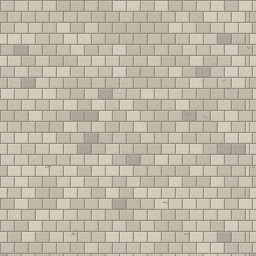
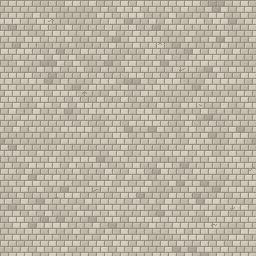
實境冒險：王城石磚縮小；地圖上的怪物改用跟戰鬥一樣的比例（不再壓到 36 像素）
Claude-Session: https://claude.ai/code/session_01Dzx97icuCcATiJaxUihh8w

diff --git a/real/index.html b/real/index.html
@@ -148,7 +148,7 @@ function draw(now){
       if(o.big){/* 樹、仙人掌、金字塔：放大到設定的高度（保持原本長寬比），稍微透明 */var th=o.big,tw=Math.round(o.im.width*th/o.im.height);
         if(o.sh){/* 樹、仙人掌、金字塔、墓碑：腳下一圈陰影 */cx.fillStyle='rgba(0,0,0,.32)';cx.beginPath();cx.ellipse(Math.round(s[0]),Math.round(s[1]-(SHY[o.k]||0)*th/o.im.height),o.op?tw*.6:Math.max(5,tw*.42),o.op?Math.max(2,Math.round(th*.2)):Math.max(2,Math.round(th*.09)),0,0,Math.PI*2);cx.fill()}cx.globalAlpha=o.op?1:TREE_A;cx.drawImage(o.im,Math.round(s[0]-tw/2),Math.round(s[1]-th),tw,th);cx.globalAlpha=1}
       else cx.drawImage(o.im,Math.round(s[0]-o.im.width/2),Math.round(s[1]-o.im.height))}
-    else if(q.t==='m'){var s2=scr(o.x,o.y),src=Monsters.src(o.k,now,o.ph),sz=Monsters.size(o.k),k=Math.min(1,36/Math.max(sz[0],sz[1])),w=Math.round(sz[0]*k),h=Math.round(sz[1]*k),lf=Math.round((Monsters.lift(o.k,now,o.ph)||0)*k);
+    else if(q.t==='m'){var s2=scr(o.x,o.y),src=Monsters.src(o.k,now,o.ph),sz=Monsters.size(o.k),k=Monsters.scale(o.k)*(o.rare&&Monsters.scale(o.k)===1?1.2:1)/* 跟戰鬥裡一樣的比例（人物 48 格高的畫布＝戰鬥裡的大小） */,w=Math.round(sz[0]*k),h=Math.round(sz[1]*k),lf=Math.round((Monsters.lift(o.k,now,o.ph)||0)*k);
       cx.fillStyle='rgba(0,0,0,.28)';cx.beginPath();cx.ellipse(Math.round(s2[0]),Math.round(s2[1]),Math.max(6,w*.38),3,0,0,Math.PI*2);cx.fill();
       if(o.rare){cx.save();cx.globalAlpha=.35+.2*Math.sin(now/300);cx.fillStyle='#ffd34a';cx.beginPath();cx.ellipse(Math.round(s2[0]),Math.round(s2[1]-h/2-lf),w*.7,h*.6,0,0,Math.PI*2);cx.fill();cx.restore()}
       var mi=src&&imgFor(src);if(mi&&mi.complete&&mi.naturalWidth)cx.drawImage(mi,Math.round(s2[0]-w/2),Math.round(s2[1]-h-lf),w,h);o.box=[s2[0]-w/2,s2[1]-h-lf,w,h]}
